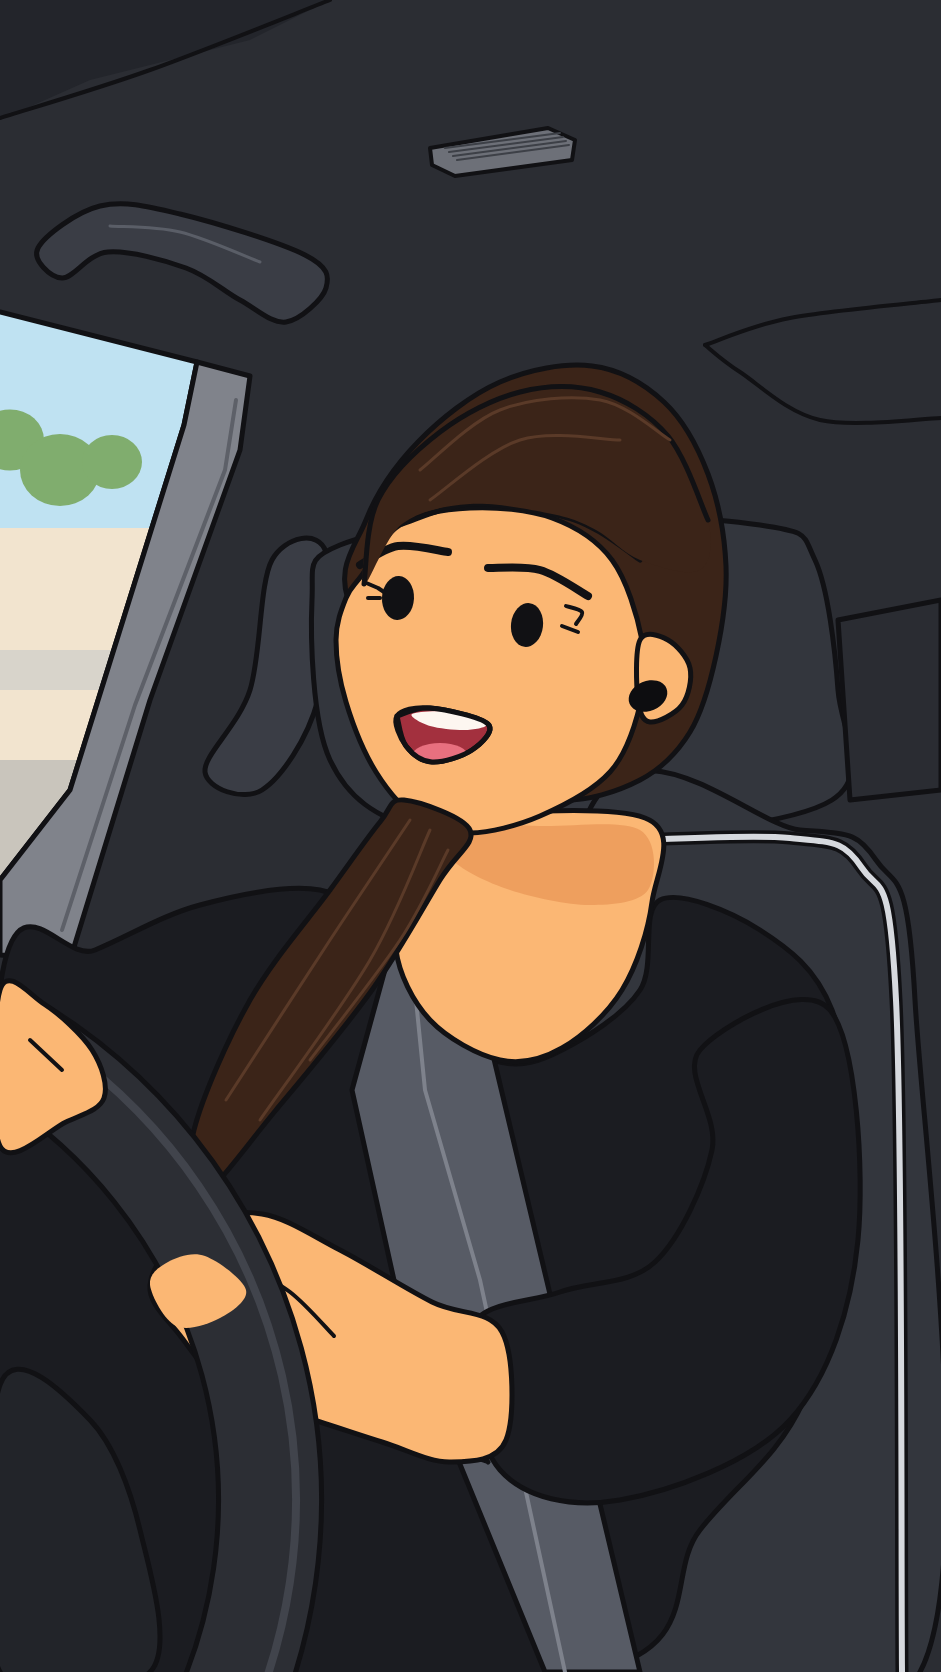
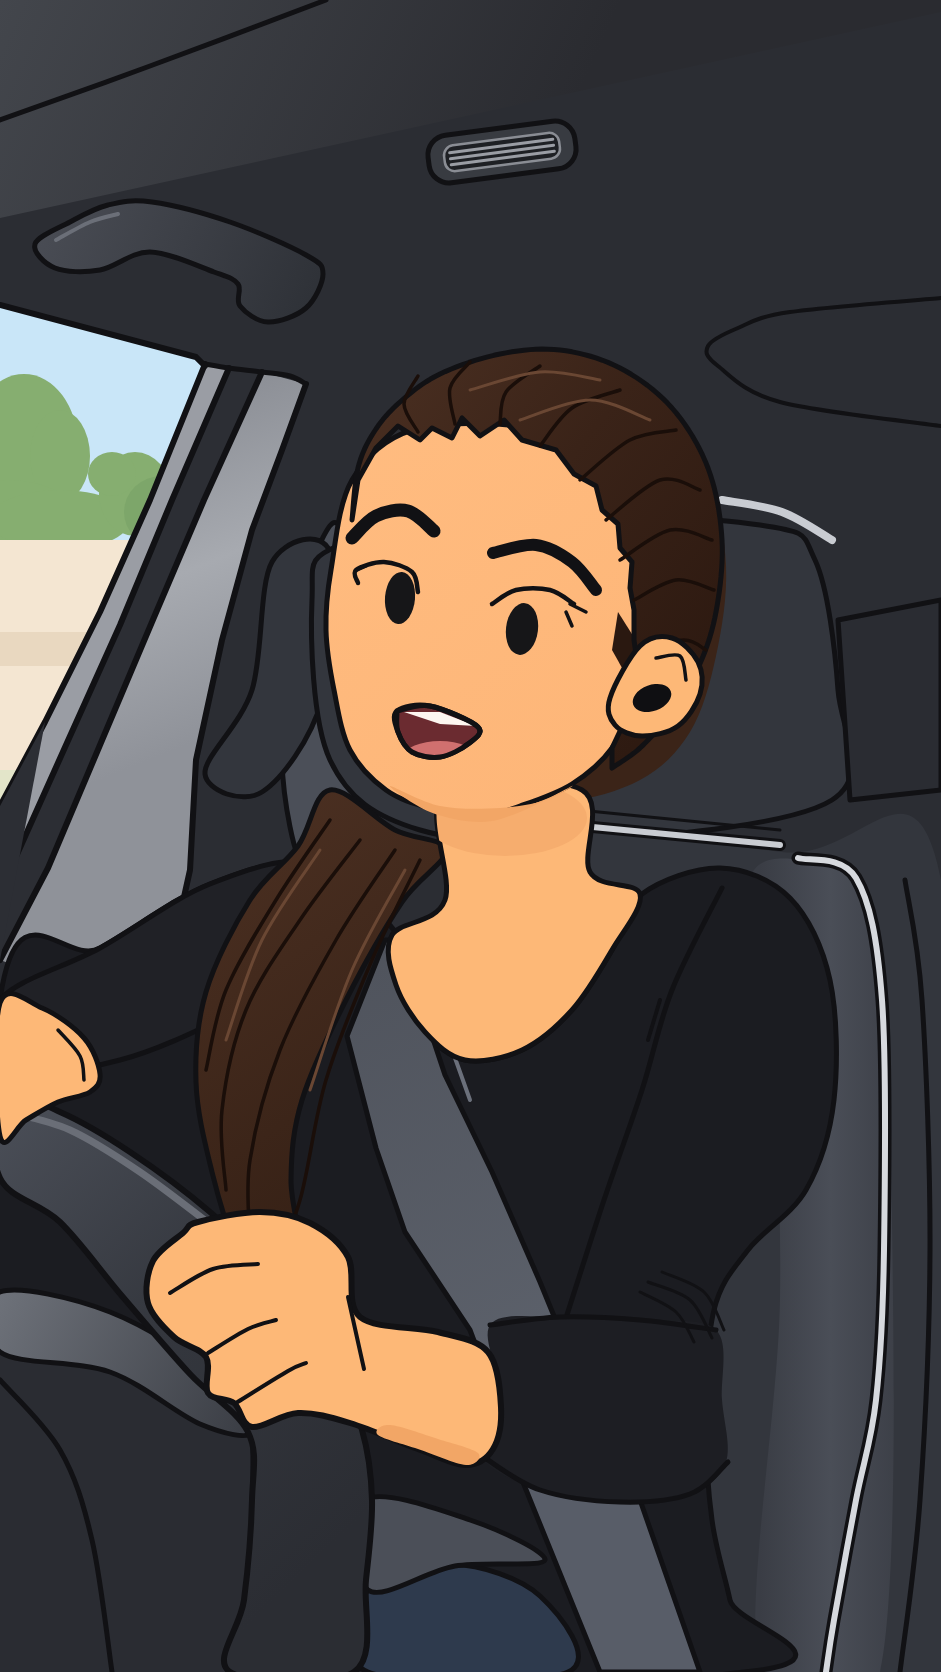
Refine woman-driving illustration to match the reference more closely
Measured the reference on a grid and overlaid it on the render: taller forehead
with jagged hairline, three-band window frame, belt, sleeve, wheel and fist
repositioned, softer roof lighting.

Claude-Session: https://claude.ai/code/session_01Kz45xneb5Mtonrm5XqLySh

diff --git a/car-ride/carRide.ts b/car-ride/carRide.ts
@@ -48,113 +48,162 @@ const oval = (c: Ctx, x: number, y: number, rx: number, ry: number, fill: string
   if (lw) { c.lineWidth = lw; c.strokeStyle = INK; c.stroke(); }
 };
 
+// sample a smooth Catmull-Rom curve into plain points (so smooth arcs and sharp zigzags can share one polygon)
+const sample = (pts: P[], per = 10): P[] => {
+  const out: P[] = [], n = pts.length, at = (i: number) => pts[Math.max(0, Math.min(n - 1, i))];
+  for (let i = 0; i < n - 1; i++) for (let k = 0; k < per; k++) {
+    const t = k / per, p0 = at(i - 1), p1 = at(i), p2 = at(i + 1), p3 = at(i + 2), t2 = t * t, t3 = t2 * t;
+    out.push([0.5 * (2 * p1[0] + (-p0[0] + p2[0]) * t + (2 * p0[0] - 5 * p1[0] + 4 * p2[0] - p3[0]) * t2 + (-p0[0] + 3 * p1[0] - 3 * p2[0] + p3[0]) * t3),
+              0.5 * (2 * p1[1] + (-p0[1] + p2[1]) * t + (2 * p0[1] - 5 * p1[1] + 4 * p2[1] - p3[1]) * t2 + (-p0[1] + 3 * p1[1] - 3 * p2[1] + p3[1]) * t3)]);
+  }
+  out.push(pts[n - 1]); return out;
+};
+const grad = (c: Ctx, a: P, b: P, stops: [number, string][]) => { const g = c.createLinearGradient(a[0], a[1], b[0], b[1]); stops.forEach(([o, col]) => g.addColorStop(o, col)); return g; };
+const fillShape = (c: Ctx, pts: P[], fill: string | CanvasGradient, smoothed = true, lw = LW) => {
+  trace(c, pts, smoothed); c.fillStyle = fill; c.fill();
+  if (lw > 0) { c.lineWidth = lw; c.strokeStyle = INK; c.lineJoin = "round"; c.lineCap = "round"; c.stroke(); }
+};
+
 export const drawCarRide = (c: Ctx, _f: number, env: Env) => {
   c.setTransform(env.scale, 0, 0, env.scale, 0, 0);
   c.fillStyle = C.cabin; c.fillRect(0, 0, W, H);
 
-  // ---- roof lining and its seams
-  shape(c, [[0, 0], [330, 0], [250, 40], [90, 80], [0, 120]], C.roof, false, 0);
-  line(c, [[0, 118], [150, 70], [330, 0]], 4, INK, true);
-  line(c, [[705, 345], [790, 318], [941, 300]], 4);
-  line(c, [[705, 345], [740, 372], [820, 420], [941, 418]], 4);
-  // vent
-  shape(c, [[430, 148], [548, 128], [575, 140], [572, 160], [455, 176], [432, 165]], C.vent, false, 4);
-  for (let i = 0; i < 4; i++) line(c, [[445 + i * 4, 152 + i * 4 - 4], [560 + i * 3, 133 + i * 4]], 2, "#3d4047", false);
-  // grab handle
-  shape(c, [[38, 248], [100, 206], [180, 214], [305, 255], [326, 288], [286, 322], [240, 300], [186, 268], [108, 252], [62, 278]], C.trim, true, 5);
-  line(c, [[110, 226], [180, 232], [260, 262]], 3, "#5a5e67");
-
-  // ---- window with the world outside
-  c.save();
-  trace(c, [[0, 312], [197, 362], [184, 425], [70, 790], [0, 880]], false); c.clip();
-  c.fillStyle = C.sky; c.fillRect(0, 300, 260, 260);
-  [[10, 440, 34], [60, 470, 40], [112, 462, 30]].forEach(([x, y, r]) => oval(c, x, y, r, r * 0.9, C.bush));
-  c.fillStyle = C.wall; c.fillRect(0, 528, 260, 240);
-  c.fillStyle = C.road; c.fillRect(0, 650, 260, 40);
-  c.fillStyle = "#c9c5bc"; c.fillRect(0, 760, 260, 130);
+  // ---- roof lining: a lighter panel up and to the left, fading into the dark headliner
+  c.fillStyle = grad(c, [0, 0], [520, 230], [[0, "#43464c"], [1, "#2a2b30"]]);
+  trace(c, [[0, 0], [941, 0], [941, 12], [0, 218]], false); c.fill();
+  line(c, [[0, 120], [150, 66], [326, 0]], 5, INK, true);
+  line(c, [[941, 298], [790, 312], [738, 328], [708, 346], [718, 366], [780, 402], [941, 426]], 4, INK, true);
+  // vent: a tilted rounded slot with three slats
+  c.save(); c.translate(502, 152); c.rotate(-0.13);
+  c.beginPath(); c.roundRect(-74, -24, 148, 48, 20); c.fillStyle = "#383b41"; c.fill(); c.lineWidth = 5; c.strokeStyle = INK; c.stroke();
+  c.beginPath(); c.roundRect(-58, -13, 116, 26, 10); c.fillStyle = "#1e2024"; c.fill(); c.lineWidth = 2.5; c.strokeStyle = "#8a8d94"; c.stroke();
+  [-6, 0, 6].forEach((y) => line(c, [[-52, y], [52, y]], 3, "#9a9da4", false));
   c.restore();
-  line(c, [[0, 312], [197, 362], [184, 425], [70, 790], [0, 880]], 5, INK, false);
-  // door pillar
-  shape(c, [[197, 362], [250, 376], [240, 450], [150, 700], [70, 960], [0, 955], [0, 880], [70, 790], [184, 425]], C.pillar, false, 5);
-  line(c, [[236, 400], [225, 470], [135, 705], [62, 930]], 4, C.pillarD, false);
-  // seat-belt anchor post behind her
-  shape(c, [[272, 560], [326, 552], [318, 700], [262, 790], [205, 772], [250, 690]], C.trim, true, 5);
+  // grab handle: a bar with a hooked leg at the right
+  fillShape(c, [[35, 244], [70, 222], [108, 205], [152, 202], [230, 222], [306, 255], [323, 274], [306, 308], [268, 322], [240, 306], [238, 284], [214, 272], [150, 252], [100, 270], [55, 268]], grad(c, [40, 205], [300, 320], [[0, "#4a4d55"], [1, "#2f3238"]]), true, 5);
+  line(c, [[56, 240], [90, 222], [118, 214]], 4, "#6b6f78");
 
-  // ---- rear seat: headrest and back, with its light piping
-  shape(c, [[312, 600], [340, 545], [520, 515], [760, 525], [815, 560], [838, 690], [832, 800], [600, 840], [420, 830], [330, 760]], C.seat, true, 5);
-  shape(c, [[838, 620], [941, 600], [941, 790], [850, 800]], "#2a2c32", false, 5);
-  shape(c, [[580, 835], [800, 830], [876, 860], [915, 1000], [920, 1672], [560, 1672]], C.seat, true, 5);
-  line(c, [[592, 842], [790, 838], [862, 868], [896, 1000], [902, 1672]], 13, INK, true);
-  line(c, [[592, 842], [790, 838], [862, 868], [896, 1000], [902, 1672]], 6, C.seatEdge, true);
+  // ---- window with the world outside, then three frame bands
+  const pane: P[] = [[0, 305], [196, 357], [205, 366], [150, 500], [100, 612], [45, 722], [0, 806]];
+  c.save(); trace(c, pane, false); c.clip();
+  c.fillStyle = "#c9e6f8"; c.fillRect(0, 290, 260, 260);
+  const bush = (x: number, y: number, rx: number, ry: number, col = "#86ae70") => oval(c, x, y, rx, ry, col);
+  bush(24, 446, 54, 72); bush(60, 456, 30, 46); bush(8, 520, 70, 40); bush(60, 520, 70, 30); bush(135, 494, 36, 42, "#86ae70"); bush(162, 512, 38, 36, "#7da66a"); bush(112, 474, 24, 22);
+  c.fillStyle = "#f4e6d2"; c.fillRect(0, 540, 260, 230);
+  c.fillStyle = "#e9d8c0"; c.fillRect(0, 632, 260, 34);
+  c.fillStyle = "#e3e5c9"; c.fillRect(0, 770, 260, 60);
+  c.restore();
+  const A: P[] = [[205, 364], [150, 500], [100, 612], [45, 722], [0, 806]];
+  const B: P[] = [[229, 368], [172, 500], [120, 625], [66, 745], [10, 870]];
+  const Cc: P[] = [[262, 372], [204, 500], [152, 622], [100, 745], [48, 868], [0, 960]];
+  const D: P[] = [[306, 384], [282, 450], [252, 530], [222, 640], [196, 760], [190, 870], [170, 960], [140, 1010]];
+  fillShape(c, [...A, ...[...B].reverse()], "#9a9da4", false, 0);                  // band 1, light
+  fillShape(c, [...B, ...[...Cc].reverse()], "#2c2e34", false, 0);                // band 2, dark
+  fillShape(c, [...Cc, ...[...D].reverse()], grad(c, [180, 400], [300, 700], [[0, "#8b8e95"], [0.5, "#a7aab0"], [1, "#8f9299"]]), false, 0);
+  [A, B, Cc, D].forEach((l) => line(c, l, 6, INK, false));
+  line(c, [[205, 364], [229, 368], [262, 372], [290, 376], [306, 384]], 5, INK, true);
+  line(c, [[0, 305], [196, 357], [205, 366]], 6, INK, false);
+  // dashboard / door panel at the bottom-left
+  fillShape(c, [[0, 806], [45, 722], [0, 960]], "#2c2e34", false, 0);
+
+  // ---- seat behind her: side post, headrest, back and piping
+  fillShape(c, [[318, 548], [344, 545], [354, 810], [306, 870], [282, 760], [300, 640]], "#4b4f58", true, 5);
+  fillShape(c, [[272, 562], [330, 552], [322, 700], [262, 792], [205, 774], [252, 690]], "#33363d", true, 5);
+  fillShape(c, [[312, 600], [340, 545], [520, 515], [760, 525], [815, 560], [838, 690], [832, 800], [600, 840], [420, 830], [330, 760]], C.seat, true, 5);
+  line(c, [[722, 500], [782, 512], [832, 540]], 8, "#c9ccd2", true);
+  fillShape(c, [[838, 620], [941, 600], [941, 790], [850, 800]], "#2a2c32", false, 5);
+  fillShape(c, [[470, 820], [782, 852], [941, 880], [941, 1672], [560, 1672], [580, 835]], C.seat, true, 0);
+  line(c, [[478, 816], [780, 845]], 12, INK, false); line(c, [[478, 816], [780, 845]], 6, "#c9ccd2", false);
+  line(c, [[478, 800], [780, 830]], 3, INK, false);
+  fillShape(c, [[750, 880], [800, 860], [870, 900], [890, 1100], [880, 1672], [760, 1672], [780, 1300], [770, 1000]], grad(c, [760, 0], [900, 0], [[0, "#3a3d45"], [0.5, "#4a4e57"], [1, "#3c3f47"]]), true, 0);
+  line(c, [[798, 858], [856, 878], [882, 1000], [884, 1250], [876, 1400], [856, 1500], [834, 1620], [826, 1672]], 13, INK, true);
+  line(c, [[798, 858], [856, 878], [882, 1000], [884, 1250], [876, 1400], [856, 1500], [834, 1620], [826, 1672]], 6, C.seatEdge, true);
+  line(c, [[905, 880], [922, 1000], [930, 1250], [920, 1500], [900, 1672]], 5, INK, true);
 
   // ---- hair behind the head
-  shape(c, [[352, 610], [366, 520], [418, 442], [500, 382], [592, 366], [664, 402], [708, 474], [726, 566], [716, 656], [690, 732], [640, 780], [560, 800], [480, 770]], C.hair);
+  fillShape(c, [[352, 610], [366, 520], [418, 442], [500, 382], [592, 366], [664, 402], [708, 474], [726, 566], [716, 656], [690, 732], [640, 780], [560, 800], [480, 770]], C.hair, true, 0);
 
   // ---- torso in the black top
-  shape(c, [[0, 988], [95, 950], [200, 905], [320, 890], [395, 942], [430, 1020], [500, 1062], [562, 1050], [640, 990], [660, 900], [760, 930], [832, 1010], [856, 1180], [804, 1400], [700, 1530], [590, 1672], [0, 1672]], C.top);
-  // seat belt, over the top
-  shape(c, [[392, 944], [468, 950], [640, 1672], [545, 1672], [405, 1330], [352, 1090]], C.belt, false, 5);
-  line(c, [[412, 960], [425, 1090], [480, 1280], [565, 1672]], 4, C.beltE, false);
+  fillShape(c, [[0, 1000], [100, 948], [210, 884], [310, 866], [398, 935], [402, 985], [425, 1032], [465, 1060], [522, 1050], [572, 1010], [612, 950], [642, 894], [720, 868], [790, 898], [830, 980], [834, 1100], [806, 1190], [748, 1250], [714, 1310], [706, 1420], [712, 1520], [730, 1600], [744, 1672], [0, 1672]], C.top, true, 5);
+  line(c, [[722, 888], [672, 990], [642, 1090], [604, 1200], [566, 1318]], 5, INK, true);
+  line(c, [[660, 1000], [648, 1040]], 4, INK, false);
+  // left arm sleeve
+  fillShape(c, [[310, 866], [210, 884], [100, 948], [0, 1000], [0, 1072], [120, 1060], [240, 1010], [330, 960]], "#202126", true, 5);
 
-  // ---- forearm and hand on the wheel (her left arm, far side)
-  shape(c, [[830, 1010], [858, 1240], [790, 1420], [620, 1500], [500, 1470], [470, 1330], [560, 1292], [655, 1262], [712, 1150], [700, 1050]], C.top);
-  line(c, [[484, 1330], [470, 1440], [488, 1462]], LW);
-  shape(c, [[150, 1285], [192, 1226], [262, 1214], [340, 1250], [432, 1302], [502, 1332], [506, 1440], [450, 1462], [382, 1442], [300, 1416], [238, 1402], [182, 1338]], C.skin);
-  line(c, [[238, 1262], [290, 1292], [334, 1336]], 4);
-  line(c, [[208, 1322], [262, 1356], [306, 1388]], 4);
-  line(c, [[178, 1300], [222, 1336], [250, 1380]], 4);
+  // ---- seat belt
+  fillShape(c, [[385, 940], [440, 940], [420, 1000], [445, 1075], [492, 1172], [540, 1282], [572, 1360], [530, 1490], [470, 1330], [405, 1232], [376, 1148], [347, 1036]], grad(c, [350, 940], [560, 1400], [[0, "#4f535c"], [1, "#5d626c"]]), false, 5);
+  fillShape(c, [[518, 1470], [640, 1500], [700, 1672], [600, 1672]], "#585d68", false, 5);
+  line(c, [[420, 960], [470, 1100]], 4, "#6b707b", false);
+
+  // ---- forearm on the right (black sleeve), cuff at the wrist
+  fillShape(c, [[490, 1325], [560, 1317], [640, 1320], [716, 1330], [722, 1400], [726, 1462], [690, 1494], [620, 1502], [540, 1490], [482, 1456], [502, 1400]], "#1d1e23", true, 0);
+  line(c, [[490, 1325], [560, 1317], [640, 1320], [716, 1330]], 5, INK, true);
+  line(c, [[482, 1456], [540, 1490], [620, 1502], [690, 1494], [728, 1462]], 5, INK, true);
+  [[[648, 1282], [690, 1300], [712, 1338]], [[662, 1272], [704, 1292], [724, 1330]], [[640, 1292], [676, 1312], [694, 1342]]].forEach((p) => line(c, p as P[], 3, INK, true));
+
+  // ---- ponytail swept over the shoulder, with long strands
+  fillShape(c, [[330, 790], [395, 830], [446, 850], [402, 902], [346, 1000], [302, 1100], [291, 1180], [300, 1262], [264, 1296], [240, 1262], [212, 1172], [196, 1082], [206, 992], [250, 900], [298, 846]], grad(c, [200, 850], [420, 1200], [[0, "#4a2f21"], [1, "#352015"]]), true, 5);
+  [[[420, 860], [372, 960], [326, 1080], [300, 1200], [270, 1275]], [[395, 850], [336, 940], [280, 1050], [250, 1160], [250, 1240]], [[360, 840], [300, 920], [246, 1010], [222, 1110], [226, 1190]], [[330, 820], [276, 900], [226, 990], [206, 1070]]].forEach((p) => line(c, p as P[], 3.5, "#1a0e09", true));
+  [[[405, 870], [352, 970], [310, 1090]], [[320, 850], [262, 940], [226, 1040]]].forEach((p) => line(c, p as P[], 3, "#6a4733", true));
 
   // ---- neck and chest
-  shape(c, [[440, 822], [645, 818], [652, 902], [622, 990], [562, 1048], [500, 1060], [430, 1020], [396, 950], [412, 880]], C.skin);
-  shape(c, [[440, 826], [540, 826], [640, 830], [648, 890], [590, 905], [510, 890], [452, 860]], C.skinS, true, 0);
+  fillShape(c, [[445, 790], [582, 790], [590, 872], [640, 894], [612, 950], [572, 1010], [522, 1050], [465, 1060], [425, 1032], [396, 985], [392, 935], [445, 900]], "#fdb877", true, 5);
+  c.save(); trace(c, [[445, 790], [582, 790], [590, 872], [640, 894], [612, 950], [572, 1010], [522, 1050], [465, 1060], [425, 1032], [396, 985], [392, 935], [445, 900]], true); c.clip();
+  oval(c, 505, 818, 82, 38, "#f6ad6e"); c.restore();
 
-  // ---- face
-  shape(c, [[362, 575], [400, 525], [470, 508], [552, 518], [612, 560], [642, 640], [640, 705], [610, 772], [540, 816], [470, 833], [420, 820], [376, 772], [346, 702], [336, 640], [346, 598]], C.skin);
-  // hairline strands over the forehead
-  line(c, [[402, 524], [470, 504], [552, 514], [596, 530], [640, 560]], 5, INK, true);
+  // ---- face (extends under the hair; the hairline is cut by the hair cap)
+  fillShape(c, [[352, 480], [412, 430], [520, 426], [562, 446], [602, 480], [628, 530], [640, 584], [642, 640], [640, 690], [612, 748], [572, 784], [520, 806], [480, 816], [430, 808], [386, 790], [350, 750], [334, 690], [326, 630], [331, 570]], grad(c, [330, 430], [640, 820], [[0, "#ffbc80"], [1, "#fdb577"]]), true, 5);
+  fillShape(c, [[390, 786], [430, 812], [480, 822], [520, 812], [572, 786], [546, 800], [500, 808], [440, 806]], "#f2a666", true, 0);
+  fillShape(c, [[618, 612], [642, 650], [640, 700], [612, 650]], "#2a1810", false, 0);
+
+  // hair cap: smooth outer sweep, jagged hairline cut into the forehead
+  const outer = sample([[352, 520], [358, 468], [374, 432], [400, 402], [440, 374], [500, 354], [560, 350], [620, 368], [672, 408], [708, 468], [722, 540], [716, 612], [698, 668], [668, 716], [640, 748], [612, 768]], 10);
+  const hairline: P[] = [[612, 748], [632, 706], [638, 668], [634, 640], [634, 610], [630, 588], [632, 562], [620, 548], [618, 524], [602, 510], [596, 486], [574, 474], [556, 450], [522, 440], [504, 420], [480, 436], [462, 418], [452, 438], [432, 428], [420, 440], [398, 426], [376, 448], [358, 480]];
+  fillShape(c, [...outer, ...hairline], grad(c, [360, 350], [720, 640], [[0, "#4b3022"], [0.5, "#3a2318"], [1, "#2e1a11"]]), false, 5);
+  [[[418, 432], [404, 404], [418, 376]], [[455, 424], [450, 388], [470, 362]], [[500, 424], [506, 392], [540, 366]], [[540, 446], [572, 408], [620, 390]], [[580, 480], [630, 440], [676, 430]], [[606, 520], [660, 480], [700, 490]], [[620, 560], [670, 530], [712, 540]], [[634, 600], [676, 580], [714, 590]], [[640, 650], [684, 640], [706, 650]]].forEach((p) => line(c, p as P[], 3.5, "#1a0e09", true));
+  [[[470, 390], [540, 372], [600, 380]], [[520, 420], [590, 400], [650, 420]]].forEach((p) => line(c, p as P[], 3, "#6a4733", true));
+
   // ear and earbud
-  shape(c, [[640, 640], [668, 640], [690, 668], [682, 705], [650, 722], [638, 700]], C.skin);
-  oval(c, 648, 696, 20, 15, "#0d0d10", -0.4, 0);
-  // brows
-  line(c, [[360, 565], [398, 546], [448, 552]], 8);
-  line(c, [[488, 568], [540, 570], [588, 596]], 8);
-  // eyes with lash flicks
-  oval(c, 398, 598, 16, 22, INK, 0.05);
-  oval(c, 527, 625, 16, 22, INK, 0.12);
-  line(c, [[364, 582], [378, 588], [384, 592]], 4, INK, false);
-  line(c, [[368, 598], [380, 598]], 4, INK, false);
-  line(c, [[566, 606], [582, 612], [576, 624]], 4, INK, true);
-  line(c, [[562, 626], [578, 632]], 4, INK, false);
+  fillShape(c, [[640, 646], [672, 638], [698, 662], [700, 694], [678, 726], [642, 736], [615, 725], [610, 698]], "#fdb877", true, 5);
+  line(c, [[656, 658], [680, 656], [686, 680]], 3.5, INK, true);
+  oval(c, 652, 698, 20, 13, "#0f0f12", -0.35, 0);
+
+  // ---- face features
+  line(c, [[352, 538], [376, 516], [408, 511], [434, 531]], 13, INK, true);               // left brow
+  line(c, [[493, 553], [536, 545], [572, 562], [596, 590]], 12, INK, true);               // right brow
+  oval(c, 400, 598, 15, 26, "#161618", 0.08);
+  oval(c, 522, 629, 16, 26, "#161618", 0.12);
+  line(c, [[358, 583], [356, 570], [384, 562], [412, 572], [418, 592]], 4.5, INK, true);   // left lid, wing at left
+  line(c, [[357, 570], [366, 566]], 3.5, INK, false);
+  line(c, [[492, 604], [516, 590], [550, 590], [574, 604]], 4.5, INK, true);              // right lid
+  line(c, [[570, 604], [586, 612]], 3.5, INK, false); line(c, [[566, 612], [572, 626]], 3.5, INK, false);
   // mouth, open mid-word
-  shape(c, [[397, 716], [430, 708], [488, 724], [472, 750], [432, 762], [406, 746]], C.mouth, true, 5);
-  c.save(); trace(c, [[397, 716], [430, 708], [488, 724], [472, 750], [432, 762], [406, 746]], true); c.clip();
-  shape(c, [[412, 714], [450, 712], [486, 724], [466, 730], [430, 726]], C.teeth, true, 0);
-  oval(c, 440, 756, 28, 13, C.tongue);
+  const mouth: P[] = [[397, 711], [430, 706], [478, 727], [468, 744], [440, 757], [412, 752], [398, 732]];
+  fillShape(c, mouth, "#6b2b30", true, 5);
+  c.save(); trace(c, mouth, true); c.clip();
+  oval(c, 440, 756, 36, 15, "#d0706f");
+  fillShape(c, [[404, 712], [440, 712], [476, 726], [440, 724]], "#fdf6f0", false, 0);
   c.restore();
-  line(c, [[397, 716], [430, 708], [488, 724], [472, 750], [432, 762], [406, 746], [397, 716]], 5, INK, true);
+  line(c, [...mouth, mouth[0]], 5, INK, true);
 
-  // ---- ponytail swept over the shoulder
-  shape(c, [[404, 800], [470, 830], [440, 880], [372, 990], [276, 1110], [200, 1196], [194, 1130], [250, 1000], [330, 890], [380, 822]], C.hair);
-  [[[430, 830], [370, 960], [260, 1120]], [[410, 820], [330, 940], [226, 1100]], [[448, 850], [400, 940], [310, 1060]]].forEach((p) => line(c, p as P[], 3, C.hairL, true));
-  // top of the hair, a sleek crown with a few light strands
-  shape(c, [[364, 584], [378, 500], [440, 432], [520, 392], [600, 392], [668, 436], [708, 520], [700, 570], [640, 560], [596, 530], [552, 514], [470, 504], [402, 524]], C.hair, true, 0);
-  line(c, [[364, 584], [378, 500], [440, 432], [520, 392], [600, 392], [668, 436], [708, 520]], 5, INK, true);
-  line(c, [[420, 470], [500, 410], [600, 400], [670, 440]], 3, C.hairL, true);
-  line(c, [[430, 500], [520, 440], [620, 440]], 3, C.hairL, true);
+  // ---- steering wheel: rim, hub spoke, dash
+  fillShape(c, [[0, 1290], [100, 1312], [196, 1370], [250, 1430], [250, 1672], [0, 1672]], "#2a2c32", false, 0);
+  fillShape(c, [[0, 1292], [110, 1312], [220, 1378], [252, 1432], [200, 1424], [110, 1372], [0, 1352]], grad(c, [0, 1300], [250, 1430], [[0, "#6d7179"], [1, "#3a3d44"]]), true, 5);
+  line(c, [[0, 1380], [60, 1450], [92, 1540], [112, 1672]], 5, INK, true);
+  fillShape(c, [[368, 1590], [452, 1564], [540, 1596], [568, 1672], [368, 1672]], "#2e3a4d", true, 5);
+  fillShape(c, [[365, 1500], [470, 1520], [545, 1560], [455, 1566], [368, 1590]], "#4b4f58", true, 5);
+  const rimOuter: P[] = [[0, 1095], [60, 1112], [130, 1152], [210, 1212], [272, 1274], [330, 1356], [362, 1430], [372, 1500], [366, 1580], [354, 1672]];
+  const rimInner: P[] = [[0, 1178], [60, 1222], [122, 1296], [190, 1374], [248, 1432], [252, 1500], [244, 1600], [230, 1672]];
+  fillShape(c, [...rimOuter, ...[...rimInner].reverse()], grad(c, [0, 1100], [380, 1500], [[0, "#4b4f58"], [0.5, "#34373e"], [1, "#2b2d33"]]), true, 6);
+  line(c, [[8, 1112], [70, 1130], [140, 1172], [215, 1228]], 7, "#6a6e77", true);
 
-  // ---- steering wheel in the foreground
-  c.save();
-  c.lineCap = "butt";
-  c.beginPath(); c.arc(-260, 1500, 530, -1.05, 0.62); c.lineWidth = 108; c.strokeStyle = INK; c.stroke();
-  c.beginPath(); c.arc(-260, 1500, 530, -1.05, 0.62); c.lineWidth = 98; c.strokeStyle = C.wheel; c.stroke();
-  c.beginPath(); c.arc(-260, 1500, 556, -0.95, 0.5); c.lineWidth = 8; c.strokeStyle = C.wheelH; c.stroke();
-  c.restore();
-  shape(c, [[0, 1385], [90, 1420], [140, 1530], [150, 1672], [0, 1672]], "#222429", true, 5);
-  // near hand gripping the rim, left edge
-  shape(c, [[0, 990], [44, 1004], [92, 1050], [104, 1098], [66, 1122], [0, 1146]], C.skin);
-  line(c, [[30, 1040], [62, 1070]], 4, INK, true);
-  // her right thumb and fingers across the rim
-  shape(c, [[150, 1285], [168, 1262], [205, 1256], [246, 1290], [220, 1318], [176, 1326]], C.skin, true, 0);
+  // ---- left hand (far left edge) on the rim
+  fillShape(c, [[0, 1003], [42, 1008], [84, 1038], [100, 1074], [90, 1092], [58, 1102], [26, 1120], [0, 1136]], "#fdb877", true, 5);
+  line(c, [[58, 1030], [80, 1056], [84, 1080]], 3.5, INK, true);
+  // right fist gripping the rim
+  fillShape(c, [[198, 1222], [260, 1212], [310, 1223], [348, 1257], [360, 1317], [438, 1332], [488, 1352], [501, 1407], [493, 1449], [466, 1465], [418, 1449], [350, 1423], [298, 1413], [252, 1427], [234, 1403], [208, 1393], [206, 1357], [174, 1337], [148, 1303], [153, 1261], [183, 1233]], "#fdb877", true, 6);
+  fillShape(c, [[390, 1425], [438, 1439], [478, 1453], [466, 1465], [418, 1449], [378, 1435]], "#f2a666", true, 0);
+  [[[170, 1293], [213, 1269], [258, 1264]], [[208, 1353], [248, 1329], [276, 1320]], [[236, 1403], [288, 1371], [306, 1363]], [[348, 1297], [364, 1369]]].forEach((p) => line(c, p as P[], 4, INK, true));
 };
 
 export const STYLE = { id: "carRide", name: "Clean outline cartoon", family: "vector cartoon", medium: "closed flat-fill paths with a thick even near-black outline", order: "cabin, figure back to front, wheel and hands last" };
